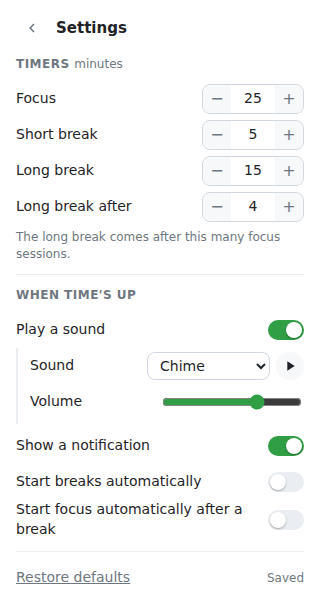
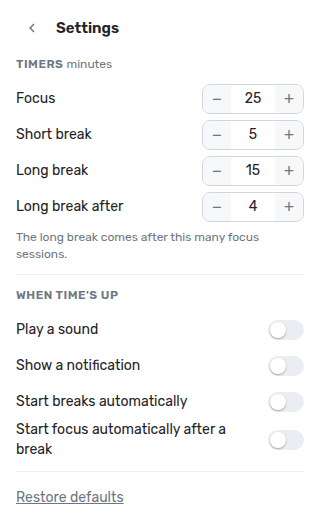
Use Google's Rubik font in the popup and settings
Bundle the Rubik variable font (latin and latin-ext subsets, SIL OFL)
under public/fonts so the extension still makes no network requests.
System fonts stay as the fallback. README screenshots updated.

Claude-Session: https://claude.ai/code/session_01LhS2toK4kZrHBymP36iQeg

diff --git a/src/popup/styles.css b/src/popup/styles.css
@@ -1,3 +1,26 @@
+/* Rubik (SIL Open Font License, see fonts/OFL.txt) is bundled so the popup makes no network requests. */
+@font-face {
+  font-family: 'Rubik';
+  font-style: normal;
+  font-weight: 300 900;
+  font-display: swap;
+  src: url('/fonts/rubik-latin-ext.woff2') format('woff2');
+  unicode-range:
+    U+0100-02BA, U+02BD-02C5, U+02C7-02CC, U+02CE-02D7, U+02DD-02FF, U+0304, U+0308, U+0329,
+    U+1D00-1DBF, U+1E00-1E9F, U+1EF2-1EFF, U+2020, U+20A0-20AB, U+20AD-20C0, U+2113, U+2C60-2C7F,
+    U+A720-A7FF;
+}
+@font-face {
+  font-family: 'Rubik';
+  font-style: normal;
+  font-weight: 300 900;
+  font-display: swap;
+  src: url('/fonts/rubik-latin.woff2') format('woff2');
+  unicode-range:
+    U+0000-00FF, U+0131, U+0152-0153, U+02BB-02BC, U+02C6, U+02DA, U+02DC, U+0304, U+0308, U+0329,
+    U+2000-206F, U+20AC, U+2122, U+2191, U+2193, U+2212, U+2215, U+FEFF, U+FFFD;
+}
+
 :root {
   color-scheme: light dark;
   --bg: #ffffff;
@@ -53,7 +76,8 @@ body {
   background: var(--bg);
   color: var(--fg);
   font:
-    14px/1.4 system-ui,
+    14px/1.4 Rubik,
+    system-ui,
     -apple-system,
     'Segoe UI',
     Roboto,
